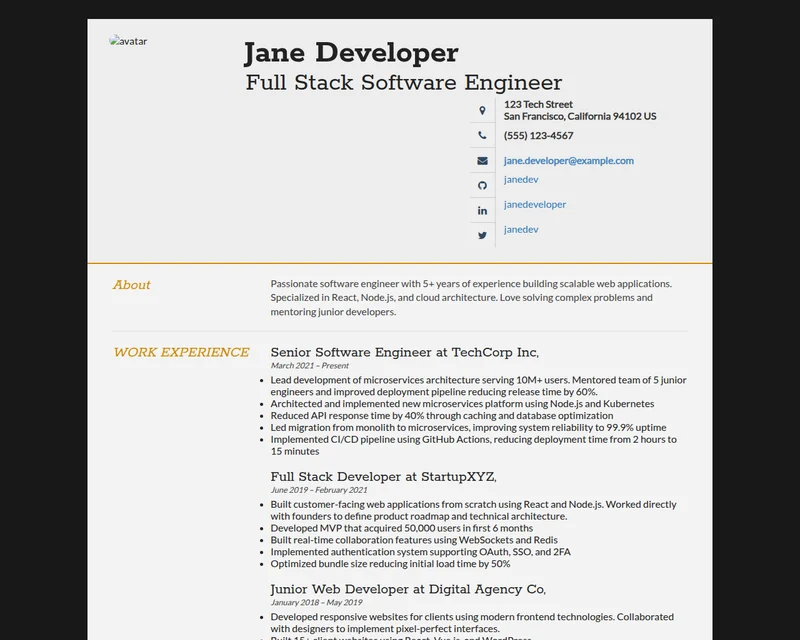
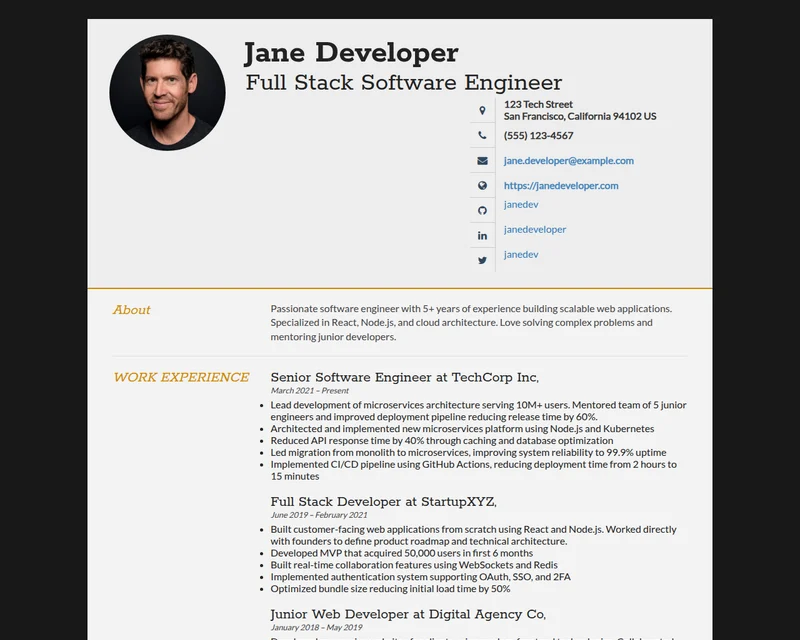
fix(themes): retain legacy photos and website details in print

diff --git a/packages/resume-themes/src/legacy-fields.ts b/packages/resume-themes/src/legacy-fields.ts
@@ -1,6 +1,27 @@
 import { Predicate } from 'effect';
 import type { ResumeDocument } from './render.ts';
 
+const legacyWebsite = (value: unknown) =>
+  Predicate.isString(value) && /^https?:\/\//i.test(value) ? value : undefined;
+
+/** This template reads `photo` and `website`, not the current schema fields. */
+export function withLegacyBasics(
+  theme: string,
+  resume: ResumeDocument
+): ResumeDocument {
+  const basics = resume['basics'];
+  if (theme !== 'tan-responsive' || !Predicate.isObject(basics)) return resume;
+  return {
+    ...resume,
+    basics: {
+      ...basics,
+      picture: basics['picture'] ?? basics['image'],
+      photo: basics['photo'] ?? basics['picture'] ?? basics['image'],
+      website: basics['website'] ?? legacyWebsite(basics['url']),
+    },
+  };
+}
+
 /** These older templates hide the entire role heading without `company`. */
 export function withLegacyWorkNames(
   theme: string,
@@ -18,12 +39,7 @@ export function withLegacyWorkNames(
         ? {
             ...job,
             company: job['company'] ?? job['name'],
-            website:
-              job['website'] ??
-              (Predicate.isString(job['url']) &&
-              /^https?:\/\//i.test(job['url'])
-                ? job['url']
-                : undefined),
+            website: job['website'] ?? legacyWebsite(job['url']),
             // This template has no summary slot, but does render bullets.
             ...(theme === 'tan-responsive' &&
             Predicate.isString(job['summary']) &&

diff --git a/packages/resume-themes/src/legacy-fields.test.ts b/packages/resume-themes/src/legacy-fields.test.ts
@@ -1,7 +1,31 @@
 import { describe, expect, it } from 'vitest';
-import { withLegacyWorkNames } from './legacy-fields.ts';
+import { withLegacyBasics, withLegacyWorkNames } from './legacy-fields.ts';
 
-describe('legacy work headings', () => {
+describe('legacy schema fields', () => {
+  it('preserves a supplied photo even without work entries', () => {
+    const input = {
+      basics: { name: 'Sample', image: 'https://example.com/photo.jpg' },
+    };
+    expect(withLegacyBasics('tan-responsive', input)['basics']).toEqual({
+      ...input.basics,
+      picture: input.basics.image,
+      photo: input.basics.image,
+      website: undefined,
+    });
+    expect(input.basics).not.toHaveProperty('picture');
+    const legacy = {
+      basics: {
+        image: 'https://example.com/new.jpg',
+        picture: 'https://example.com/legacy.jpg',
+      },
+    };
+    expect(withLegacyBasics('tan-responsive', legacy)['basics']).toEqual({
+      ...legacy.basics,
+      photo: legacy.basics.picture,
+      website: undefined,
+    });
+    expect(withLegacyBasics('elegant', input)).toBe(input);
+  });
   it.each(['paper-plus-plus', 'tan-responsive'])(
     'preserves current employer names in %s',
     (theme) => {

diff --git a/packages/resume-themes/src/render.ts b/packages/resume-themes/src/render.ts
@@ -9,7 +9,7 @@ import { ensureHtmlCharset } from './charset.ts';
 import { themeLoaders } from './loaders.ts';
 import { setThemeLocale } from './locale.ts';
 import { withPrintStyles } from './print-styles.ts';
-import { withLegacyWorkNames } from './legacy-fields.ts';
+import { withLegacyBasics, withLegacyWorkNames } from './legacy-fields.ts';
 
 /** The theme used when neither the request nor the resume names one. */
 export const DEFAULT_THEME = 'elegant';
@@ -135,8 +135,11 @@ export const renderTheme = Effect.fn('renderTheme')(function* (
   // Some themes (elegant) rewrite the resume they're given; give them a copy.
   const prepared = withLegacyWorkNames(
     theme,
-    withProjectSummaries(
-      withStringLocations(normalizeDates(withBasics(structuredClone(resume))))
+    withLegacyBasics(
+      theme,
+      withProjectSummaries(
+        withStringLocations(normalizeDates(withBasics(structuredClone(resume))))
+      )
     )
   );
   const html = yield* Effect.tryPromise({

diff --git a/packages/resume-themes/src/render.test.ts b/packages/resume-themes/src/render.test.ts
@@ -36,6 +36,21 @@ describe('renderTheme', () => {
     await render('pumpkin');
     expect(await render('macchiato')).toContain(name);
   });
+  it('renders a supplied photo and website in the actual Tan template', async () => {
+    const html = await Effect.runPromise(
+      renderTheme('tan-responsive', {
+        basics: {
+          name: 'Sample',
+          image: 'https://example.com/photo.jpg',
+          url: 'https://example.com',
+        },
+      })
+    );
+    // Mustache entity-escapes slashes in attribute values.
+    const decoded = html.replace(/&#x2f;/gi, '/');
+    expect(decoded).toContain('src="https://example.com/photo.jpg"');
+    expect(decoded).toContain('href="https://example.com"');
+  });
   it('preserves achievement bullets and current employer names in Claude', async () => {
     const html = await Effect.runPromise(
       renderTheme('claude', {

diff --git a/packages/resume-themes/src/print-styles.ts b/packages/resume-themes/src/print-styles.ts
@@ -33,6 +33,8 @@ const overrides: Readonly<Record<string, string>> = {
   h1{font-size:28pt}h2{font-size:16pt}h3{font-size:12pt}`,
   'tan-responsive': `.instaFade,.quickFade{opacity:1!important}
   #cv{margin:0;width:100%;max-width:none}#mainArea{padding:0}
+  #headshot:has(img[src]:not([src=""])){display:block}
+  #headshot img{max-height:28mm;object-fit:cover}
   section .sectionTitle,section .sectionContent{float:none;width:auto}
   section .sectionTitle{margin-bottom:3mm}section{break-inside:auto}`,
 };

diff --git a/docs/THEME_PORTFOLIO.md b/docs/THEME_PORTFOLIO.md
@@ -114,9 +114,9 @@ establish recruiter preference, hiring outcomes or universal ATS compatibility.
 Existing classifications were audited against current hosted previews and layout
 source, and all 77 existing thumbnails were regenerated with the same sample
 content. Tan Responsive remains for compatibility; its screen preview needs its
-entrance animation to settle. The hosted renderer supplies its legacy company
-field and preserves work summaries, and printing disables the animation. Its
-upstream picture-field compatibility still needs review. The 150 new designs
+entrance animation to settle. The hosted renderer adapts employer, photo and
+website fields and preserves work summaries; printing disables the animation.
+The upstream package still expects those older fields. The 150 new designs
 support current standard JSON Resume fields without client-side animation.
 
 The catalogue-wide [PDF verification gate](THEME_PRINT_QA.md) extends these

diff --git a/docs/THEME_PRINT_QA.md b/docs/THEME_PRINT_QA.md
@@ -3,6 +3,8 @@
 Every registered gallery theme must print on both A4 and Letter. The audit
 discovers the catalogue from the hosted renderer, so new themes join the check
 automatically. `.github/workflows/theme-pdf.yml` runs it for print-related changes.
+CI prints the committed theme bundles; the separate dist-sync gate verifies that
+they match their source before release.
 
 ```sh
 pnpm exec turbo build --filter=@repo/resume-themes... --concurrency=4
